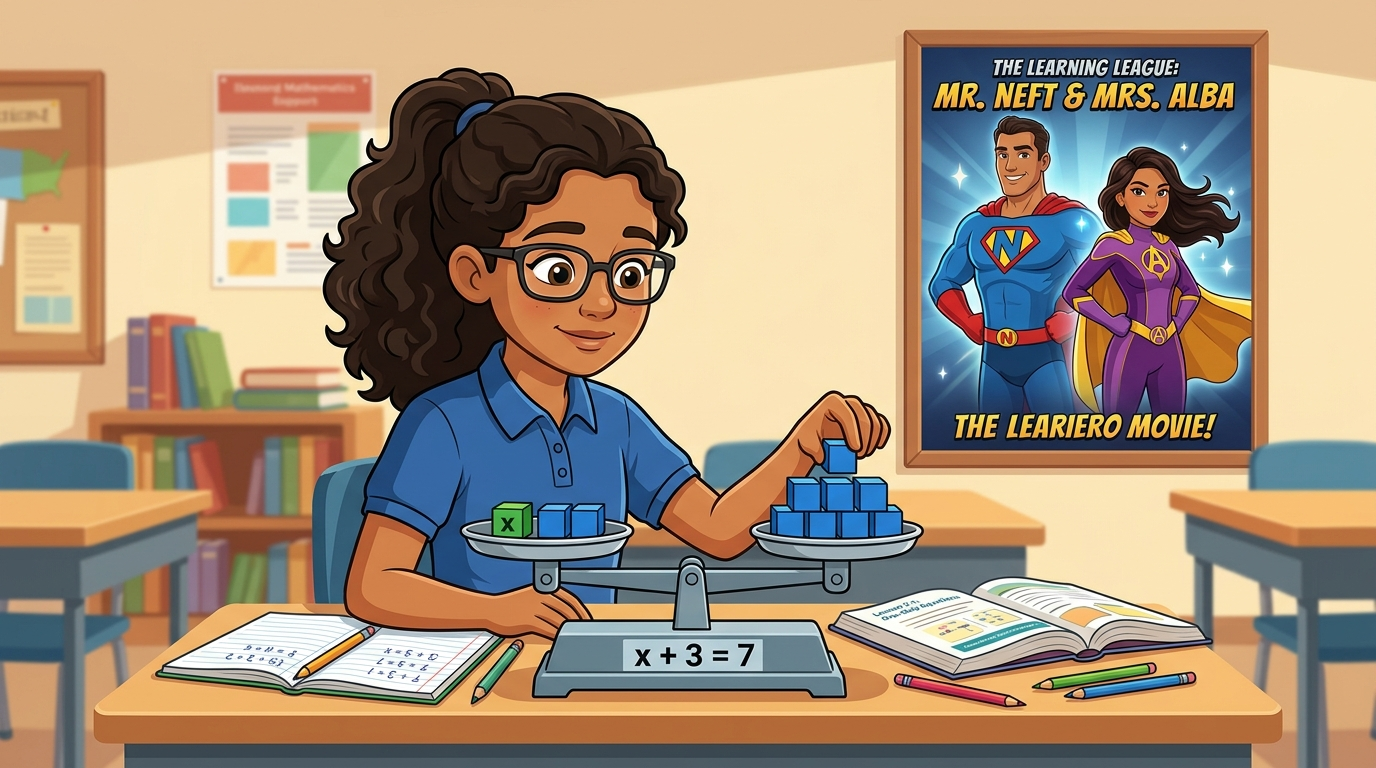
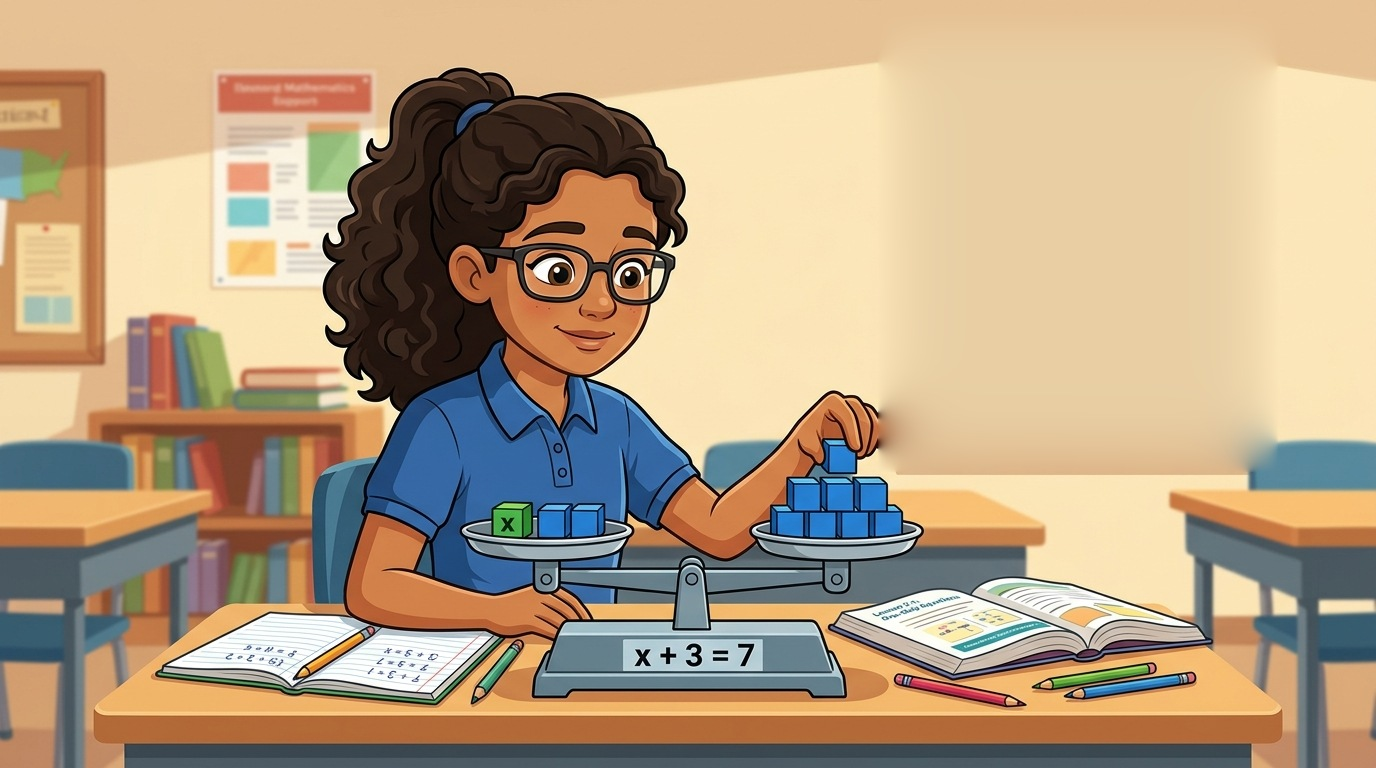
fix(art): remove the AI-generated wall poster from the classroom images
The three classroom illustrations used by the objective-art catalog, the math
lab studio and learning supports all carried a superhero wall poster whose
generated text was gibberish — algebra_content read 'THE LEARIERO MOVIE!' and
the other two carried garbled micro-text. The text is baked into the pixels,
so the posters were removed by solving the Laplace equation across each frame
region, which reconstructs the wall from its surrounding boundary rather than
stamping a flat patch. All four checked-in copies of each image (assets/,
images/, public/assets/, public/images/) are updated in lockstep.

Also regenerates lessons/7-2/printable.html, which is built from the lesson
config and still carried the old Notice & Wonder context.

Changed region(s): [[0.625, 0.0312, 0.9375, 0.625]]

diff --git a/lessons/7-2/printable.html b/lessons/7-2/printable.html
@@ -74,7 +74,7 @@
     <span>Date: <span class="u"></span></span>
   </div>
   <section class="lp-section"><h2>🎯 Learning Goals</h2><p><strong>Content:</strong> I can solve one-step addition and subtraction equations using inverse operations.</p><p><strong>Language:</strong> I can explain my steps using the words equation, inverse operation, isolate, and solution.</p></section>
-  <section class="lp-section"><h2>👀 Notice &amp; Wonder</h2><p class="context">Detective Chen tracked a suspect on two days. The route on Sunday was 6.6 kilometers longer than the route on Saturday, and Sunday's route measured 13.2 kilometers.</p>
+  <section class="lp-section"><h2>👀 Notice &amp; Wonder</h2><p class="context">The top row shows two baseballs and a bat with a total of 50. The bottom row shows one baseball and a bat with a total of 45. Compare the two rows.</p>
          <p><strong>I notice…</strong></p><div class="work"><div class="wl"></div><div class="wl"></div></div>
          <p><strong>I wonder…</strong></p><div class="work"><div class="wl"></div><div class="wl"></div></div></section>
   <section class="lp-section"><h2>📚 Vocabulary</h2><table class="vocabtbl"><tr><th>Word</th><th>What it means</th><th>Example</th></tr><tr><td><strong>Solve One-Step Addition and Subtraction Equations</strong><br><span class="es">Resolver ecuaciones de suma y resta de un paso</span></td><td>Use one inverse addition or subtraction operation to isolate the variable.<br><span class="es">Usar una operación inversa de suma o resta para aislar la variable.</span></td><td></td></tr><tr><td><strong>Equation</strong><br><span class="es">Ecuación</span></td><td>A math sentence with an equal sign showing both sides are the same.<br><span class="es">Una oración matemática con un signo igual que muestra que ambos lados son iguales.</span></td><td></td></tr><tr><td><strong>Inverse operation</strong><br><span class="es">Operación inversa</span></td><td>Two math actions that undo each other, like × and ÷.<br><span class="es">Dos operaciones que se deshacen entre sí, como × y ÷.</span></td><td>Subtracting 5 to undo adding 5 — Subtraction undoes addition.</td></tr><tr><td><strong>Isolate</strong><br><span class="es">Despejar</span></td><td>To get the letter by itself on one side.<br><span class="es">Dejar la letra sola en un lado.</span></td><td></td></tr><tr><td><strong>Solution</strong><br><span class="es">Solución</span></td><td>A number that makes the equation or inequality true.<br><span class="es">Un número que hace verdadera la ecuación o desigualdad.</span></td><td></td></tr><tr><td><strong>One-step equation</strong><br><span class="es">Ecuación de un paso</span></td><td>An equation you can solve in a single step using one inverse operation.<br><span class="es">Una ecuación que puedes resolver en un solo paso usando una operación inversa.</span></td><td></td></tr><tr><td><strong>Balance</strong><br><span class="es">Equilibrio</span></td><td>Keeping both sides of an equation equal by doing the same thing to each side.<br><span class="es">Mantener ambos lados de una ecuación iguales haciendo lo mismo a cada lado.</span></td><td></td></tr></table></section>
